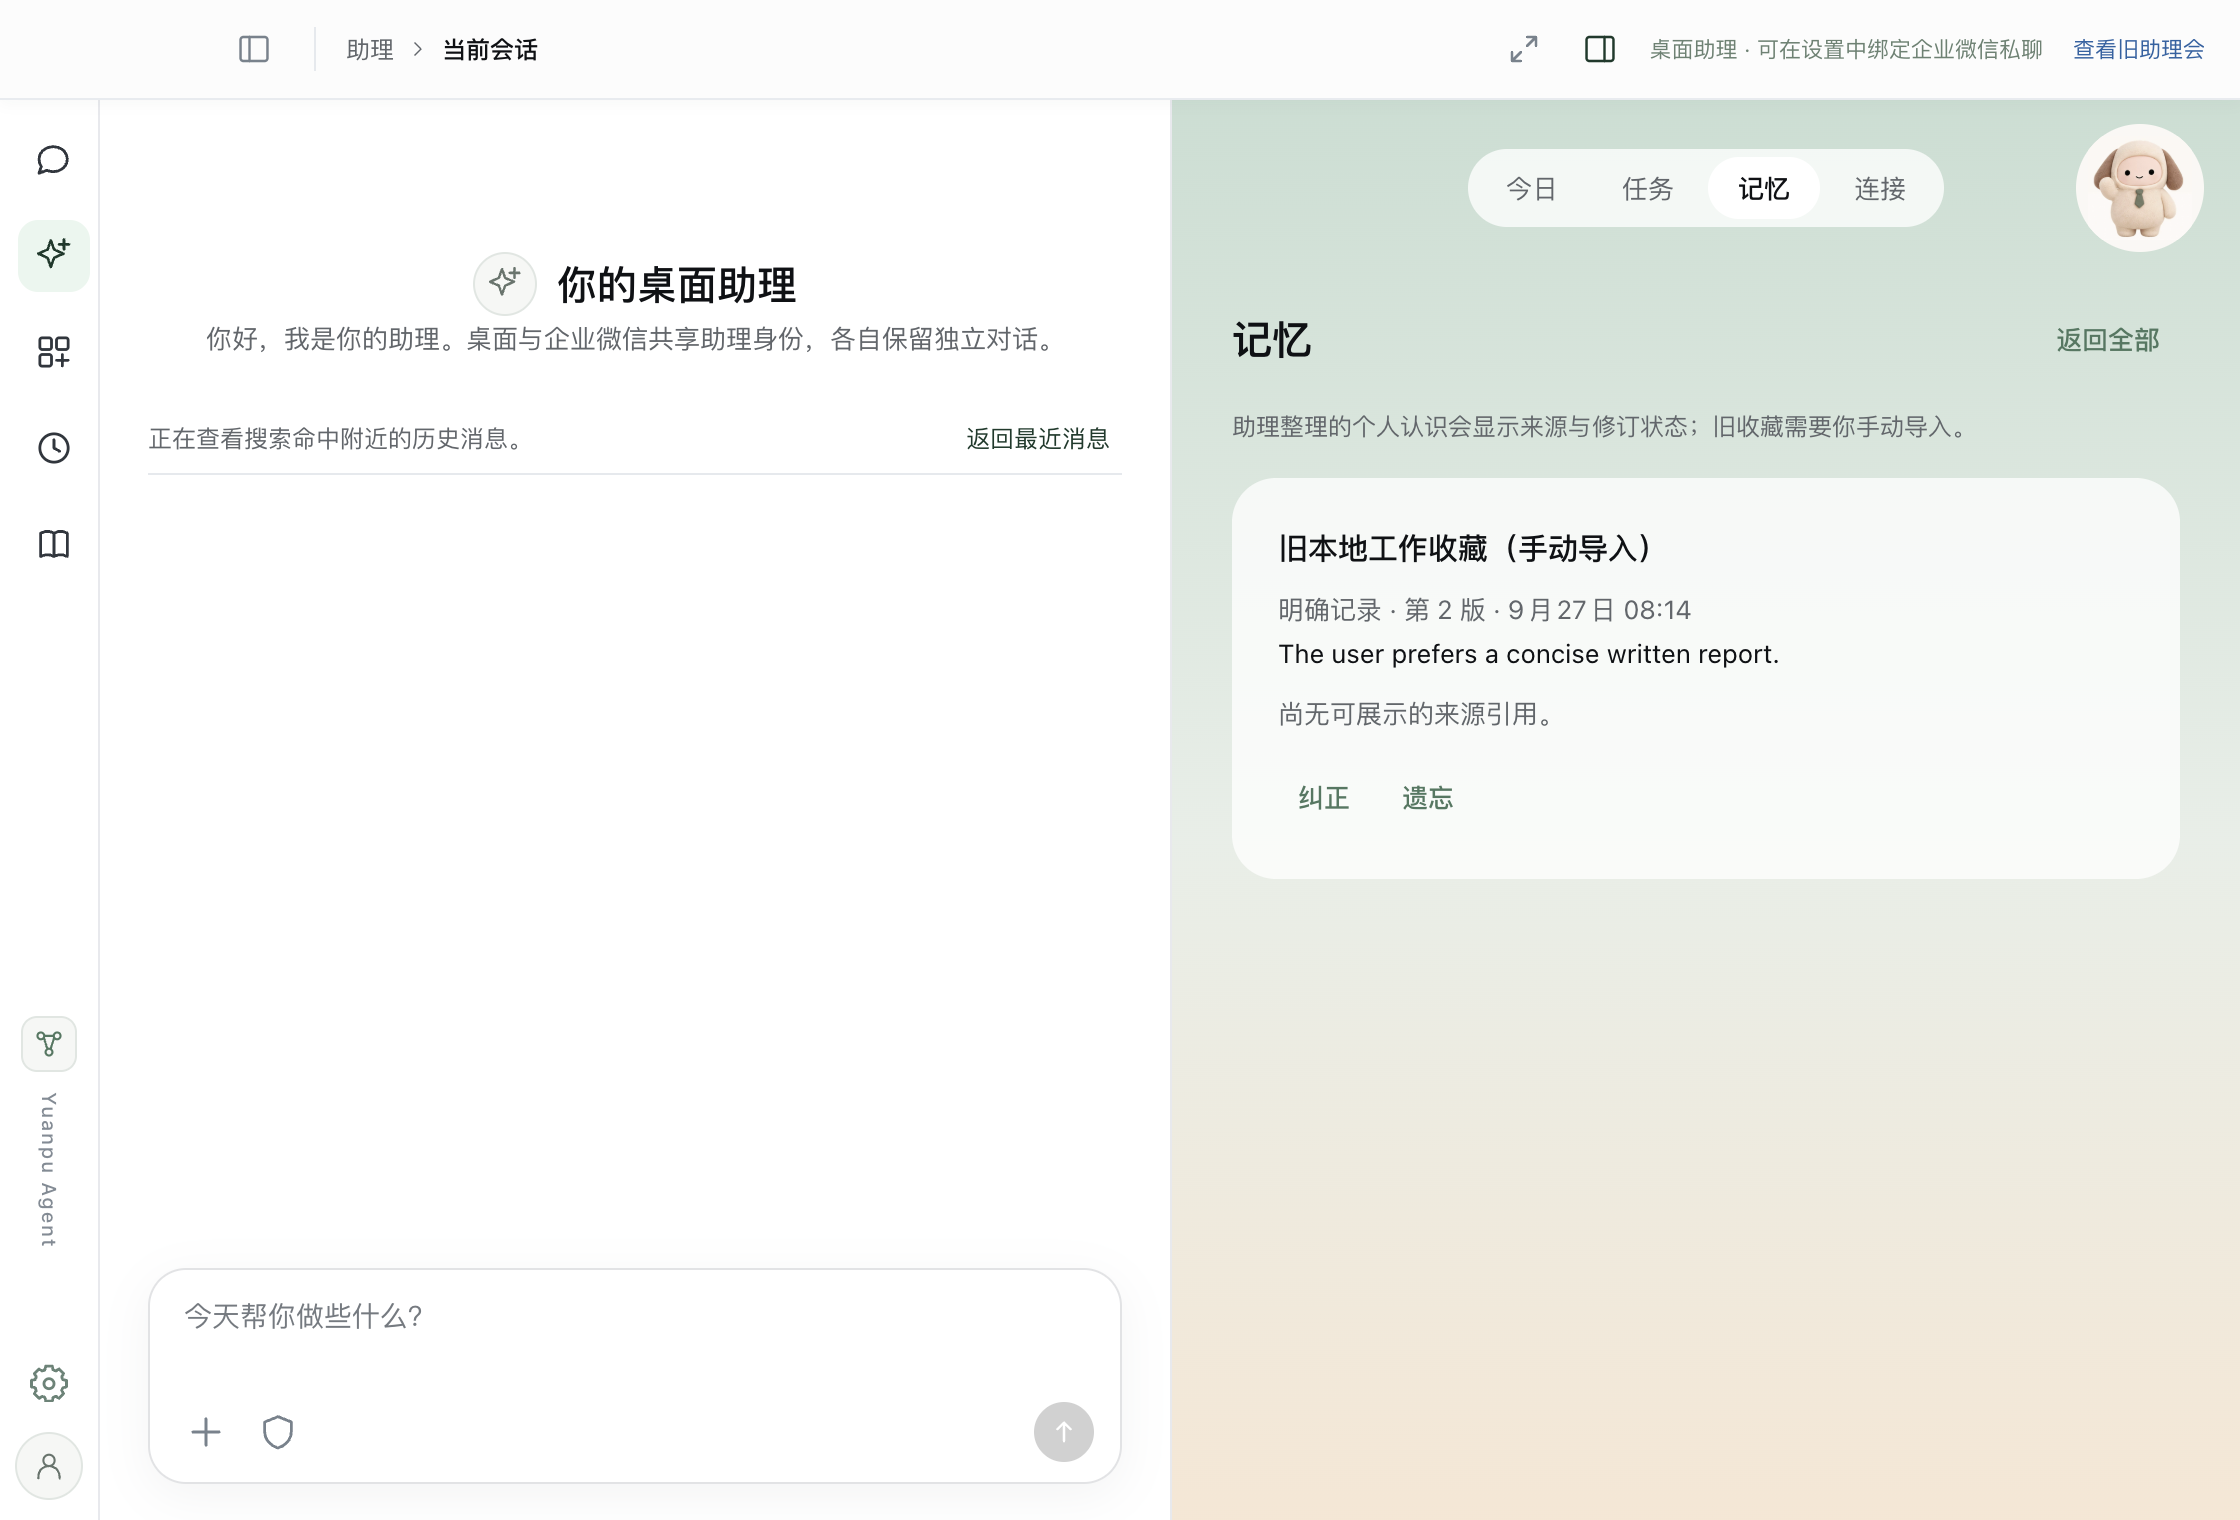
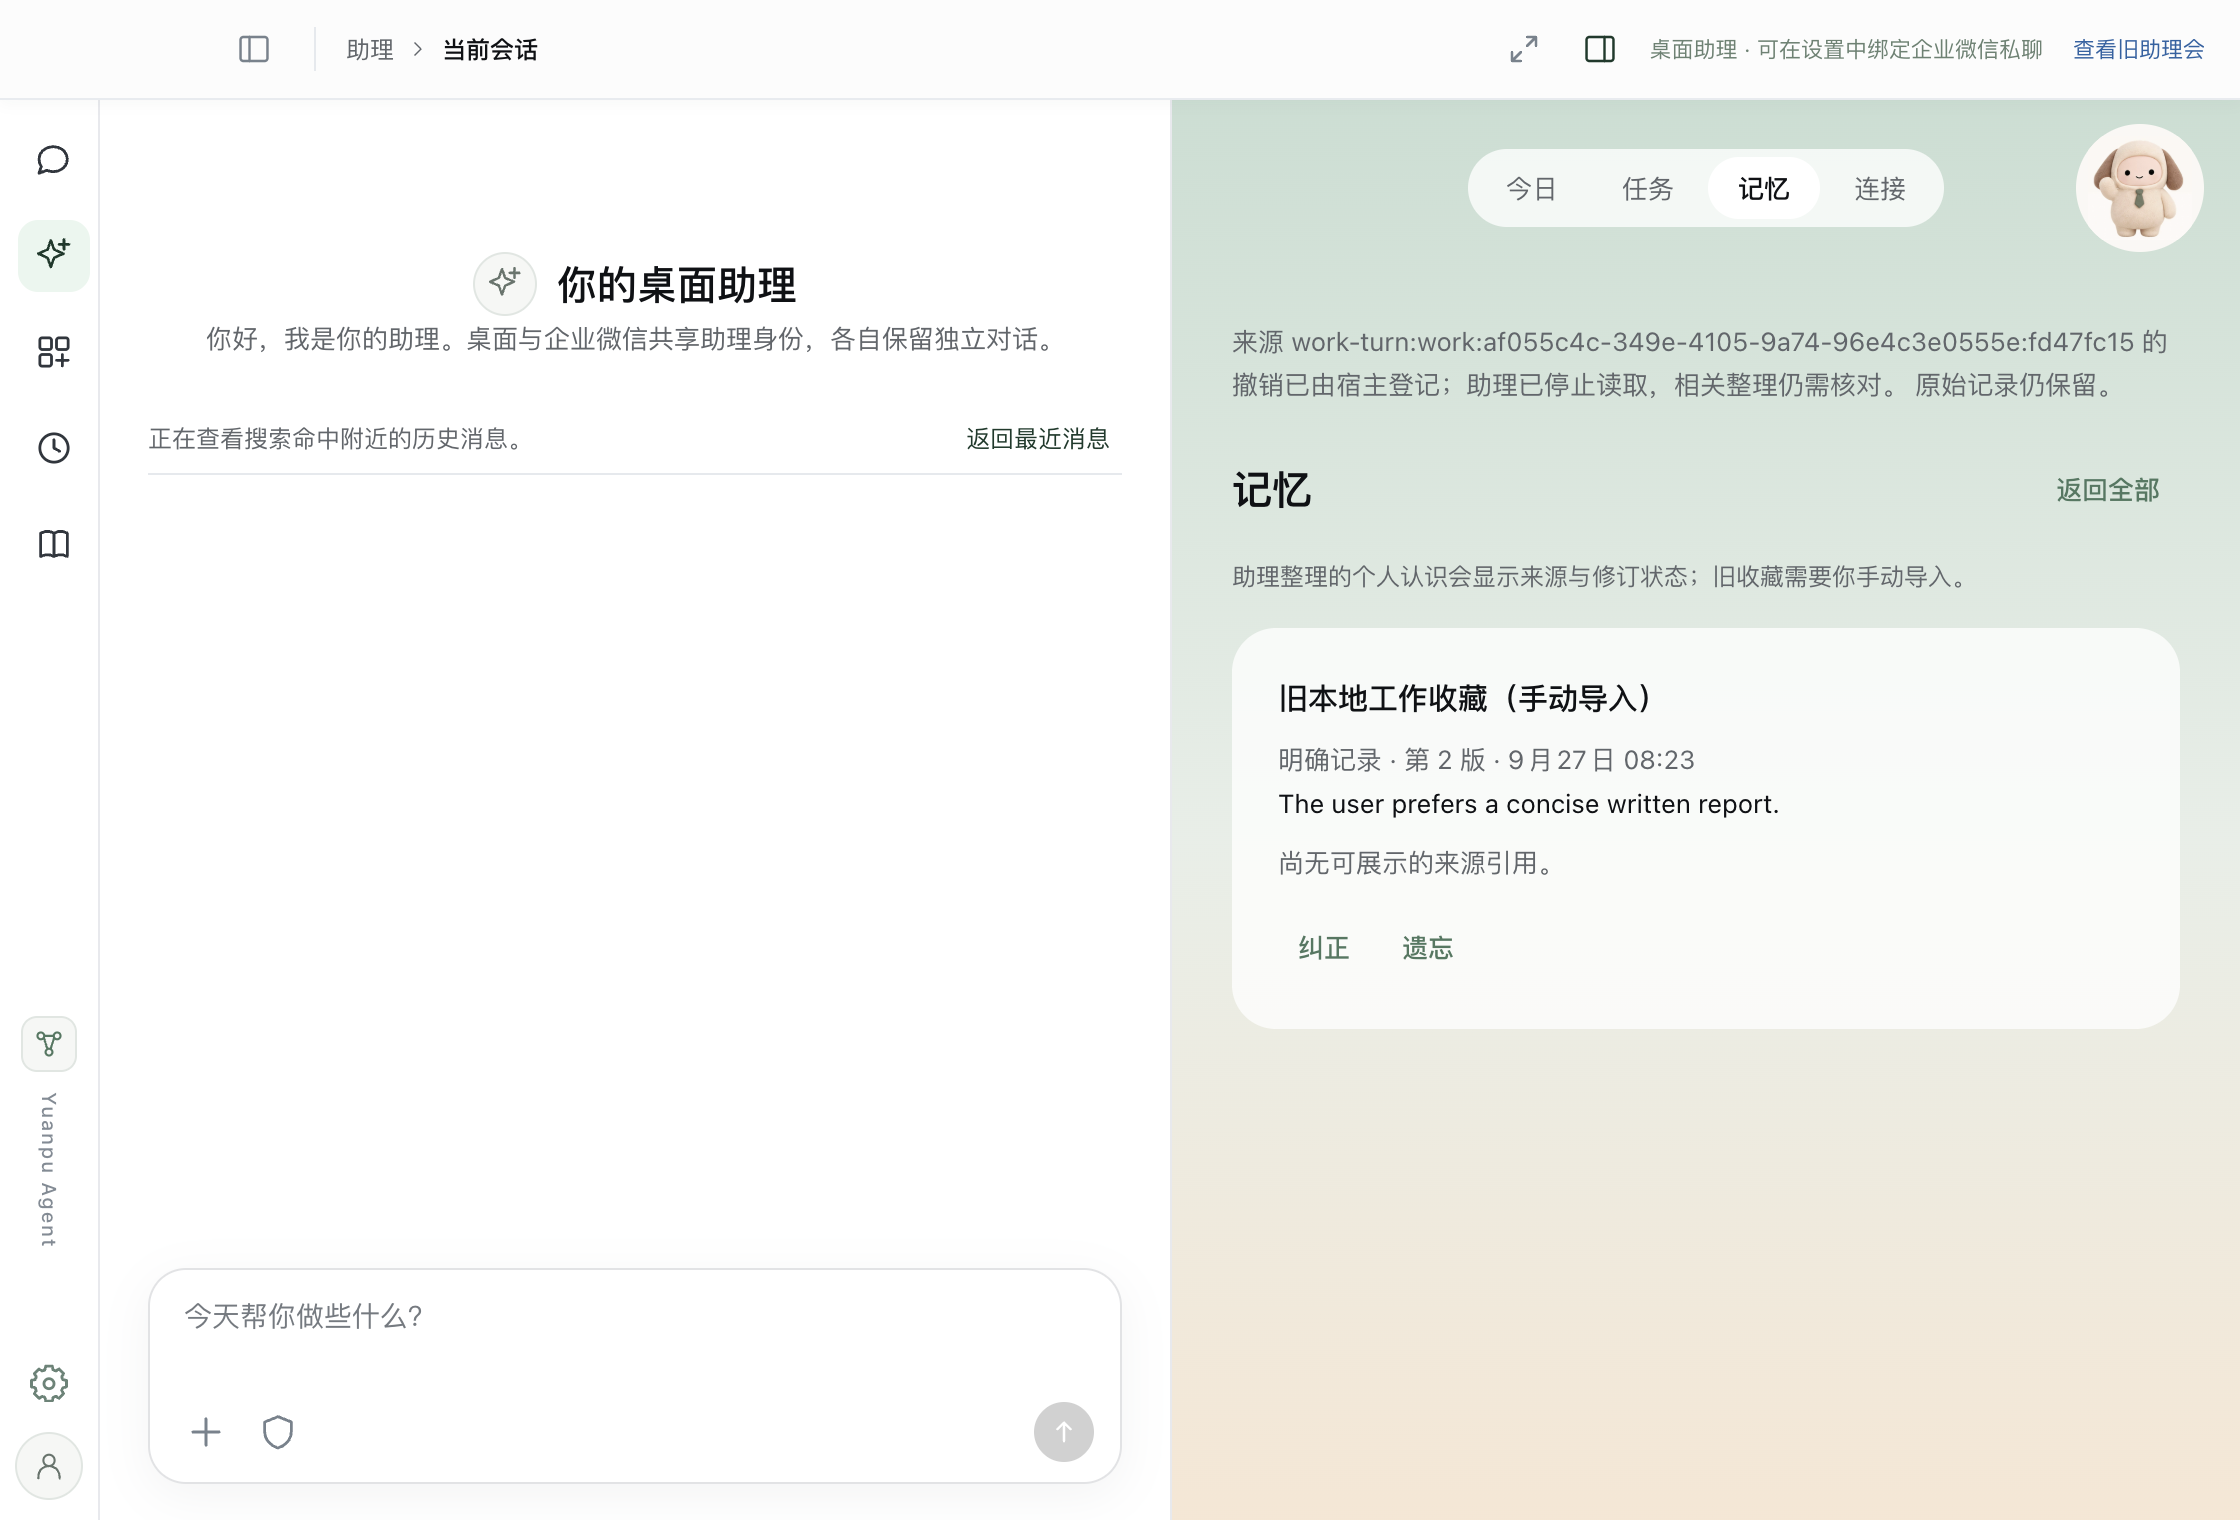
test: exercise assistant memory actions in packaged UI

Changed region(s): [[0.5312, 0.2164, 1.0, 0.5875], [0.625, 0.6184, 0.6562, 0.6493]]

diff --git a/.tasks/verification/TASK-050/results.md b/.tasks/verification/TASK-050/results.md
@@ -7,7 +7,7 @@
 | 场景 | 预期与事实 | 判定、模式及证据 |
 | --- | --- | --- |
 | V50-01 两个新 Work | 两个独立工作会话分别落盘并被助理审阅，第二个 Work 的模型输入不继承第一个 Work 标记。打包 Electron preload 创建两会话并提交两回合；真实 SEA/Worker 产生两份不同 workId 的审阅。 | **PASS（真实打包进程 + 合成 loopback 模型）**。[打包业务探针](../../../apps/desktop/test/task-050-packaged-assistant-probe.mjs)，runner `1790467782588067000.log`。模型语义质量不由此证明。 |
-| V50-02 修订、来源撤销和重启 | 桌面桥接导入纯测试记忆后版本化纠正；宿主登记一条来源 tombstone，Worker 停止读取；完整退出再打开，修订和撤销保持，原始 Work 回合仍在。真实界面“记忆”页显示修订版。 | **PASS（真实打包进程、临时 Home）**。同 V50-01；[合成桌面截图](assistant-desktop.png)。源码级和真实 Worker 的双来源撤回/旧游标回归已在本次 `pnpm check` 通过；来源撤销 UI 的两步点击另有 [TASK-062 浏览器模拟证据](../../../docs/frontend/evidence/task-062/results.md)，本次打包探针通过 preload 调用撤销。 |
+| V50-02 修订、来源撤销和重启 | 桌面桥接导入纯测试记忆后，在真实打包界面打开记忆、输入并保存纠正；来源详情经“撤销助理读取”与“确认撤销”两步点击。宿主登记一条 tombstone，Worker 停止读取；完整退出再打开，修订和撤销保持，原始 Work 回合仍在。 | **PASS（真实打包进程、临时 Home）**。[最终打包 UI 探针](../../../apps/desktop/test/task-050-packaged-assistant-probe.mjs)、runner `1790468606540187000.log`、[合成桌面截图](assistant-desktop.png)。源码级和真实 Worker 的双来源撤回/旧游标回归也在本次 `pnpm check` 通过。 |
 | V50-03 主动建议 | 后台从未核实的 Work 形成建议，真实桌面“今日”页打开建议并点击“忽略”，App 重启后反馈仍为 ignored；没有向企微主动投递。 | **PASS（真实打包进程 + 合成 loopback 模型）**。同 V50-01。该场景只证明本地建议、界面与持久化；真实渠道送达另列未验证。 |
 | V50-04 专业委派与可信产物 | 助理只读委派独立 Pi 会话，专业结果成为来源，Work 从 partial 变 supported 只能依据后续真实 write 工具与宿主快照。 | **PASS（真实 Runtime/Worker/Pi + 合成 loopback 模型）**。复跑 [TASK-047 服务级场景](../../../apps/runtime/test/task-047-work-repair-stage.test.mjs)，包含于本次完整检查。此前 [TASK-047 独立阶段证据](../TASK-047/results.md) 的环境边界不变。 |
 | V50-05 拒绝、重复与恢复 | 重复桌面/企微入站、来源撤销、委派取消与未知结果不得重复执行或越权；遗忘后旧事件不复活。 | **PASS（临时 Host、真实 Worker 和合成渠道适配器的回归）**。本次 `pnpm check` 中 `assistant-channel-live`、`assistant-source-live`、`assistant-delegation-service`、`assistant-suggestion-worker` 与 TASK-047 场景通过。此行不是一次真人企微故障注入。 |
@@ -20,7 +20,7 @@
 
 1. `pnpm check`：分支 runner `1790467376378716000.log`，exit 0（Assistant 45、Runtime 128、runtime-kit 189、Desktop 21 等均通过）；集成 main `8417d12` 的直接复跑 exit 0（Runtime 128/128）。首次下载失败 runner `1790467257389091000.log`，不计产品失败。
 2. `pnpm package:desktop`：runner `1790467509360909000.log`，exit 0；包括 `build:native`、`smoke:native` 与 `smoke:runtime-update`。
-3. `node apps/desktop/test/task-050-packaged-assistant-probe.mjs`：最终 runner `1790468060790104000.log`，exit 0；包含七技能目录断言、真实桌面点击和合成截图。早期通过的 runner `1790467782588067000.log` 未含最终七技能断言。
+3. `node apps/desktop/test/task-050-packaged-assistant-probe.mjs`：最终 runner `1790468606540187000.log`，exit 0；包含七技能目录、真实桌面纠正/两步撤销/忽略点击及合成截图。早期 runner `1790468060790104000.log` 通过桥接纠正/撤销与 UI 忽略；本次把前两项也改为真实界面点击。
 4. `node apps/desktop/test/task-021-packaged-electron-app-probe.mjs`：最终 runner `1790468015649433000.log`，exit 0。早期失败 runner `1790467842769413000.log` 和 `1790467959237961000.log` 分别暴露测试清理竞态与过时模型请求计数。
 
 本记录的 PASS 只覆盖注明的环境和输入。TASK-050 的真实企微“修订后记忆”结果尚未取得，不将卡标为 done；如获授权，再执行一次限定的测试账号往返、清理测试记忆，并补充真实桌面与渠道结果。否则保持 UNVERIFIED，避免把 fixture 或已有“收到”回执冒充本轮完整业务验收。

diff --git a/.tasks/memory/TASK-050.md b/.tasks/memory/TASK-050.md
@@ -3,9 +3,9 @@
 - Keywords: `packaged Electron`, `SEA`, `Assistant Worker`, `two Work`, `suggestion`, `source revocation`, `WeCom`。
 - Owner: `root-task050-verifier-10414-10414`；分支 `task/task-050-assistant-full-acceptance`；2026-09-27。状态仍为 **in_progress**；以 `.tasks/tasks.yaml` 为准。
 - 设计与验收入口：`docs/assistant-memory-proposal.md`、`docs/assistant-skills-and-automation.md`、`.tasks/verification/TASK-050/results.md`。新打包探针在 `apps/desktop/test/task-050-packaged-assistant-probe.mjs`；无产品实现修改。
-- 临时 Home 的真实打包 Electron/SEA/Worker + loopback 模型已验证两个新 Work 隔离与评估、七项助理专属技能、桌面建议点击忽略、记忆纠正展示、来源 tombstone、App 退出/重启恢复和 Runtime/Worker 回收。合成截图在 `.tasks/verification/TASK-050/assistant-desktop.png`。
+- 临时 Home 的真实打包 Electron/SEA/Worker + loopback 模型已验证两个新 Work 隔离与评估、七项助理专属技能、桌面建议点击忽略、记忆纠正输入保存、来源两步撤销、App 退出/重启恢复和 Runtime/Worker 回收。合成截图在 `.tasks/verification/TASK-050/assistant-desktop.png`。
 - 打包更新/回退探针 `apps/desktop/test/task-021-packaged-electron-app-probe.mjs` 原来只等 Runtime 退出，Assistant Worker 写入时清理临时 Home 可报 `ENOTEMPTY`；现明确等待 Worker PID 消失。原“总模型请求数=Work 请求数”断言被助理后台 review 打破；现按 Work `write` 工具面计数并保持会话上下文断言。修正后四次真实打包 App 启动/候选回退通过。
-- Node 24.15.0 / pnpm 11.22.0 / macOS arm64：验收提交 `8417d12` 已集成 main，main 的 `pnpm check` exit 0；分支全仓 runner `1790467376378716000.log` exit 0；`pnpm package:desktop` runner `1790467509360909000.log` exit 0；业务探针最终 runner `1790468060790104000.log` exit 0；更新/回退探针 runner `1790468015649433000.log` exit 0。runner 原始日志不提交。
+- Node 24.15.0 / pnpm 11.22.0 / macOS arm64：阶段增量已集成 main，main 的 `pnpm check` exit 0；分支全仓 runner `1790467376378716000.log` exit 0；`pnpm package:desktop` runner `1790467509360909000.log` exit 0；完整 UI 业务探针最终 runner `1790468606540187000.log` exit 0；更新/回退探针 runner `1790468015649433000.log` exit 0。runner 原始日志不提交。
 - 首次全仓检查因忽略的模型数据目录缺失且 models.dev 超时失败；复用主线同版忽略数据目录后全仓通过，不是产品失败。宿主没有 zvec 工具；按已知卡片/设计/测试入口用 scoped `rg` 和定向读，未建索引。
 - **未验证门槛**：获授权的真实 Home 测试记忆修订后，经已配对测试账号新的真实企微私聊查询；外部模型语义质量及 Windows/Linux。用户只授权过此前一次“收到”往返，不能复用为本次外发许可。父任务已向用户提出一次限定的测试记忆/企微往返授权；在答复前不要碰真实 Home 或发消息，不把本卡标 done。
 - 下一步：若用户授权，按其范围执行一次真实桌面修订与企微私聊往返并清理测试记忆，核对独立会话和准确答复；若不授权，保持 unverified/in_progress 并说明缺口。任何产品缺陷交由独立修复卡，不在验收卡中暗改。
